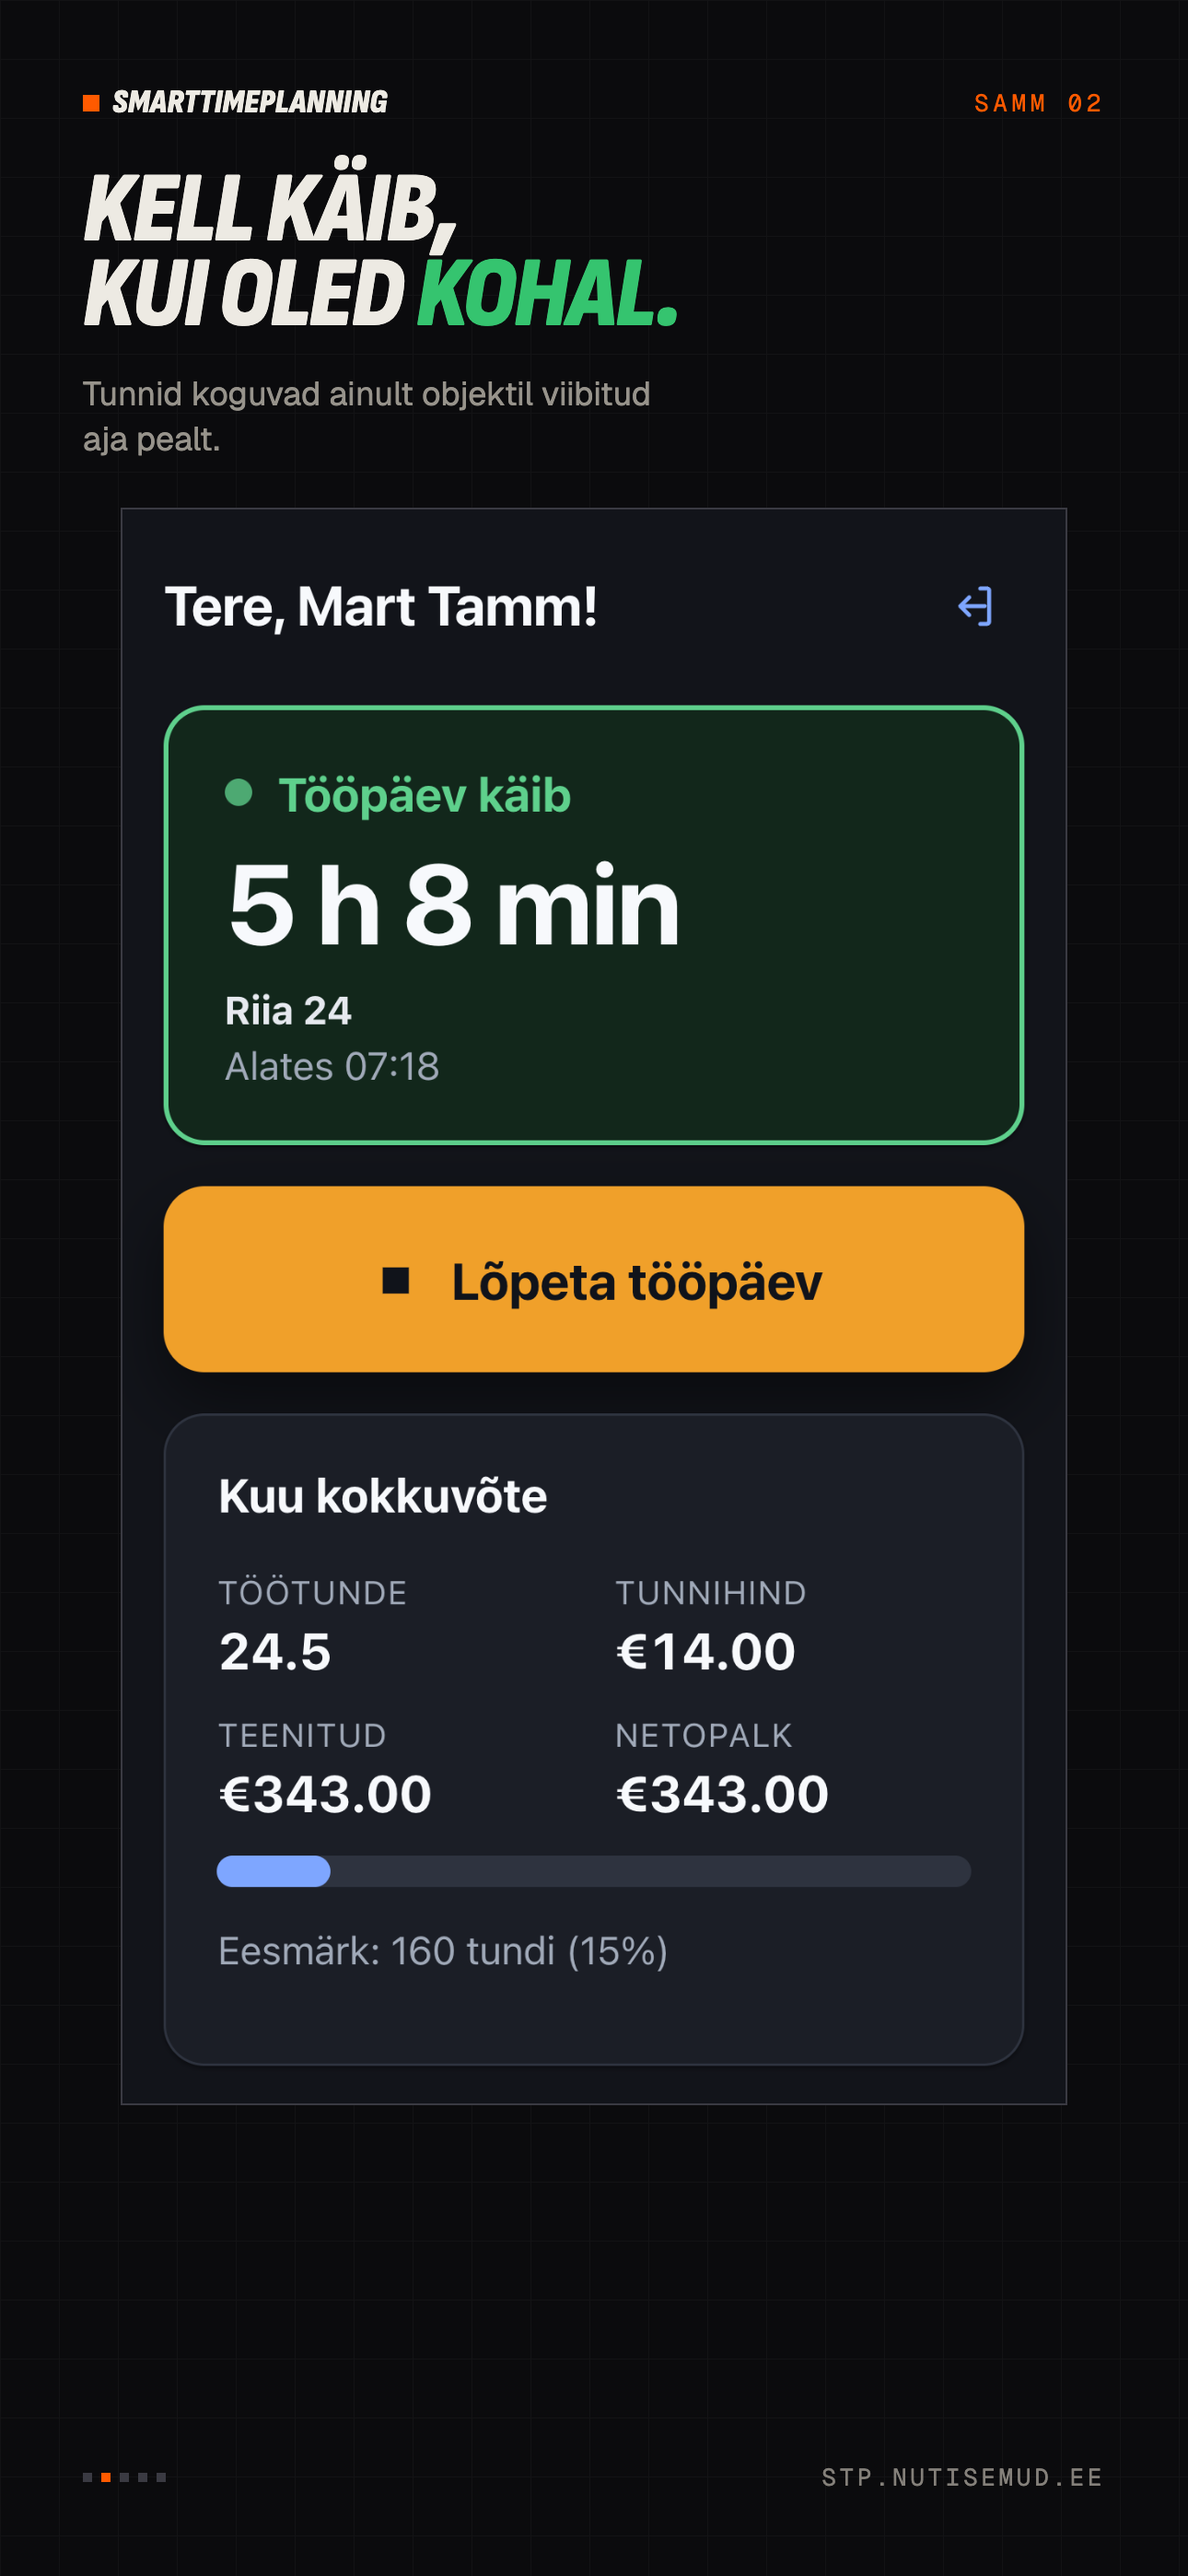
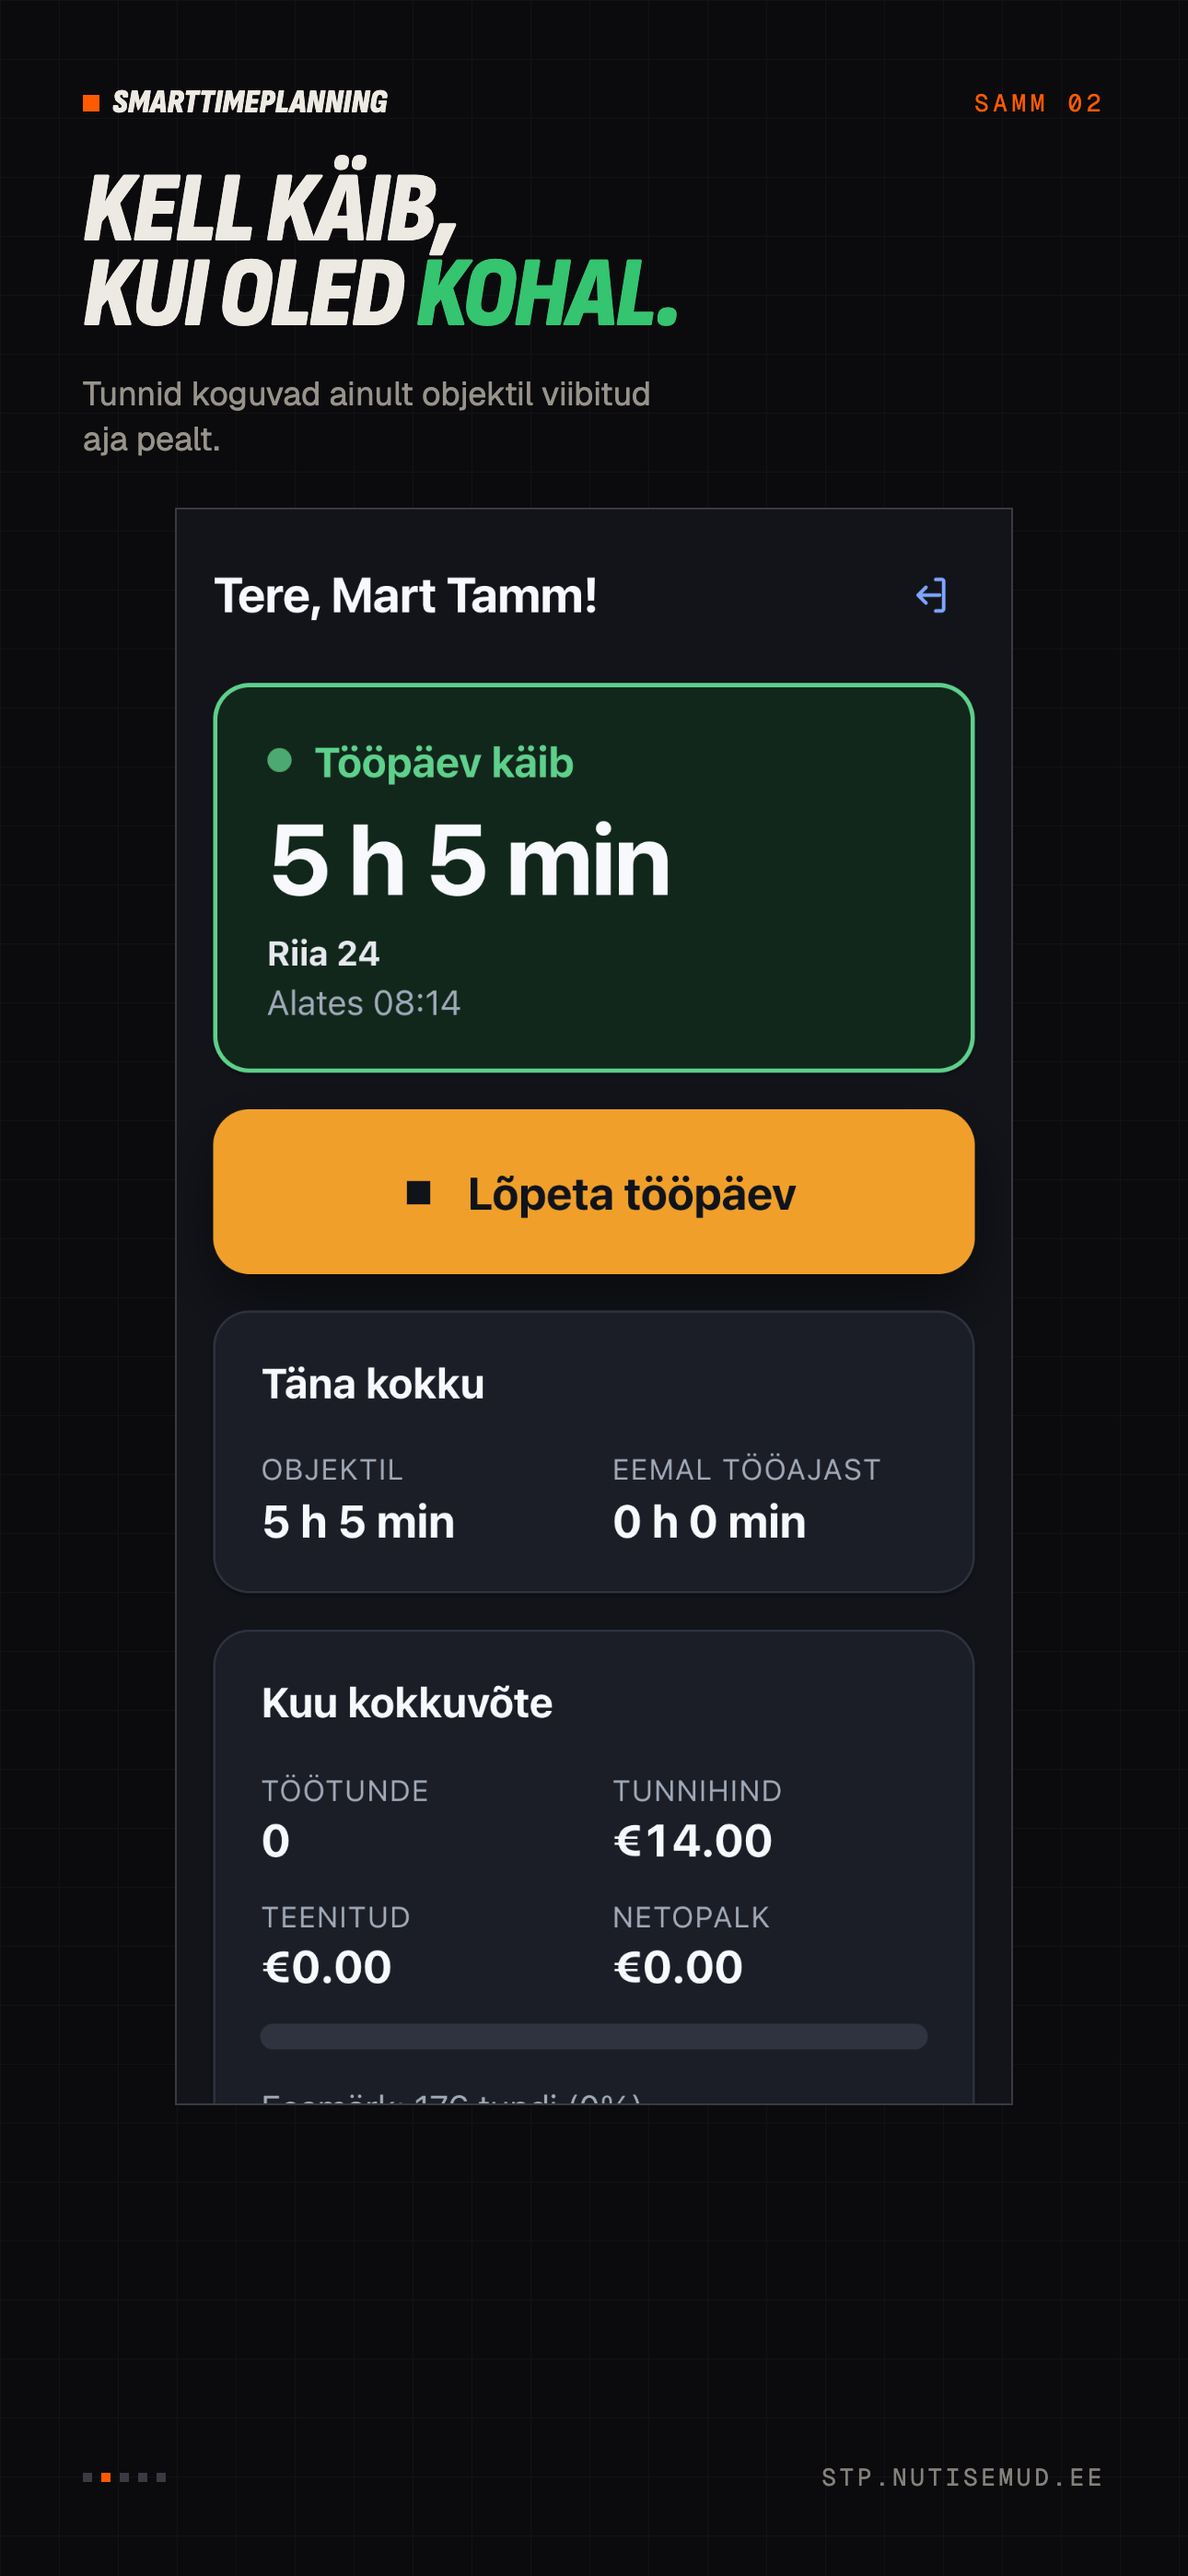
Tee reklaamikaadrid päris äpist ja eemalda valepositiivne kellamärge
Reklaamikomplekt kasutas ekraanipilte, mis olid tehtud enne tänaseid
uuendusi. Kaadrid on nüüd päris jooksvast rakendusest ja sisaldavad
seda, mis päriselt olemas on: tänase päeva jaotus avalehel,
puudumistaotluste voog ja kahtlase tegevuse märge.

Kaks uut kaadrit (mobile-absences, mobile-alert) ja kaks uut kuulutust,
mis EI ole karusselli osa — need on eraldi sõnumid, seega punkte nende
peal ei ole.

Demoandmed tekitavad seadmemärke TEGELIKU tuvastusloogika kaudu: seeme
saadab kohaloleku sündmuse teisest seadmest kui see, kus tööpäev algas.
Käsitsi andmebaasi kirjutatud rida näitaks reklaamis midagi, mida toode
ei pruugi teha. Selleks said demoandmete tööpäevad ka seadme id.

KELLANIHKE MÄRGE EEMALDATUD. Just see katse näitas, et ta on
valepositiivne: kolme päeva demoandmestik tekitas kümme märget, millest
ükski ei olnud päris probleem. Iga offline-kirje on määratluse järgi
vana, seega nihe on suur ka siis, kui kõik on korras — ja nihkest ei saa
eristada "telefoni kell on vale" ja "töötaja oli kolm päeva levita".
Tulevikku suunatud kella, mis oleks päris signaal, lükkab server juba
tagasi. `clock_drift_seconds` ja `created_offline` jäävad kirje külge ja
haldur näeb neid raportis.

Märge, mis tekib alati, õpetab ainult märkeid ignoreerima.

Changed region(s): [[0.124, 0.2178, 0.8682, 0.809], [0.124, 0.5601, 0.155, 0.809]]

diff --git a/api/src/routes/timeLogs.routes.ts b/api/src/routes/timeLogs.routes.ts
@@ -9,11 +9,7 @@ import { computeWorkedHours, presenceState } from "../utils/timeStats.js";
 import { checkGeofence } from "../utils/geofence.js";
 import { decidePresenceEvent } from "../utils/presenceEvents.js";
 import { recordAudit } from "../utils/audit.js";
-import {
-  CLOCK_DRIFT_ALERT_SECONDS,
-  isDeviceMismatch,
-  raiseSecurityAlert,
-} from "../utils/securityAlerts.js";
+import { isDeviceMismatch, raiseSecurityAlert } from "../utils/securityAlerts.js";
 
 export const timeLogsRouter = Router();
 timeLogsRouter.use(requireAuth);
@@ -204,16 +200,23 @@ timeLogsRouter.post(
         dedupeKey: `mock_location:${log.id}`,
       });
     }
-    if (clockDriftSeconds != null && Math.abs(clockDriftSeconds) > CLOCK_DRIFT_ALERT_SECONDS) {
-      await raiseSecurityAlert({
-        organizationId: req.user!.organizationId,
-        userId,
-        timeLogId: log.id,
-        type: "clock_drift",
-        details: { driftSeconds: clockDriftSeconds },
-        dedupeKey: `clock_drift:${log.id}`,
-      });
-    }
+    /*
+     * Kellanihke MÄRGET EI TEHTA.
+     *
+     * Proovitud ja tagasi võetud: iga offline-kirje on määratluse järgi
+     * vana, seega nihe on suur ka siis, kui kõik on korras. Katsetuses
+     * tekitas kolme päeva demoandmestik kümme märget, millest ükski ei
+     * olnud päris probleem.
+     *
+     * Nihkest ei saa eristada "telefoni kell on vale" ja "töötaja oli
+     * kolm päeva levita" — mõlemad näevad välja ühtemoodi. Tulevikku
+     * suunatud kella, mis oleks päris signaal, lükkab server juba
+     * ülalpool tagasi.
+     *
+     * `clock_drift_seconds` ja `created_offline` on kirje küljes alles ja
+     * haldur näeb neid raportis. Märge, mis tekib alati, õpetab ainult
+     * märkeid ignoreerima.
+     */
 
     res.status(201).json(log);
   })

diff --git a/api/src/utils/securityAlerts.ts b/api/src/utils/securityAlerts.ts
@@ -17,9 +17,7 @@ export type SecurityAlertType =
   /** Sündmused tulevad teisest seadmest kui see, kus tööpäev algas. */
   | "device_mismatch"
   /** Seade teatas, et asukoht on võltsitud. */
-  | "mock_location"
-  /** Seadme kell on serveri omast oluliselt nihkes. */
-  | "clock_drift";
+  | "mock_location";
 
 export interface RaiseAlertInput {
   organizationId: number;
@@ -71,8 +69,6 @@ export async function raiseSecurityAlert(input: RaiseAlertInput): Promise<void> 
   }
 }
 
-/** Kellanihe, millest alates tekib märge (sekundites). */
-export const CLOCK_DRIFT_ALERT_SECONDS = 15 * 60;
 
 /**
  * Kas tegevus tuleb teisest seadmest kui see, kus tööpäev algas?

diff --git a/marketing/README.md b/marketing/README.md
@@ -203,13 +203,22 @@ Mõeldud eelkõige **karussellina** (Facebook / Instagram), kus inimene
 kerib slaidilt slaidile ja saab voost aru ilma ühtegi sõna lugemata.
 Poe-mõõt (1290 × 2796) on olemas selleks ajaks, kui äpp poodi läheb.
 
+**Karussell (voog):**
+
 | Slaid | Ekraan | Ütleb |
 |---|---|---|
 | `01-alusta` | Alusta tööpäeva | Asukoht kontrollitakse enne alustamist |
-| `02-kell-kaib` | Tööpäev käib | Tunnid koguvad ainult objektil |
+| `02-kell-kaib` | Tööpäev käib | Tunnid koguvad ainult objektil, tänane jaotus kohe näha |
 | `03-kell-peatub` | Objektilt eemal | Lahkumine peatab kella ise |
 | `04-tunnid-kirjas` | Tööajalugu | Iga päev koos objekti ja tundidega |
-| `05-proovi` | — | Hind ja CTA |
+| `07-proovi` | — | Hind ja CTA |
+
+**Eraldi kuulutused** (ei ole karusselli osa, seetõttu ilma punktideta):
+
+| Slaid | Ekraan | Ütleb |
+|---|---|---|
+| `05-puudumised` | Puudumised | Töötaja taotleb, haldur kinnitab |
+| `06-margis` | Märge avalehel | Kui keegi kasutab su kontot, saad teada |
 
 ## Karusselli põhitekst
 
@@ -250,7 +259,22 @@ Kui kasutad slaide eraldi kuulutustena, mitte karussellina:
 > Objekt, kellaajad ja tunnid nädalate kaupa. Kuu lõpus ei ole vaja
 > kellegi mälu usaldada.
 
-**05 — Proovi tasuta**
+**05 — Puudumine: taotle ja saa vastus**
+
+> Töötaja esitab puudumistaotluse äpist, haldur kinnitab või lükkab
+> tagasi koos põhjendusega. Kinnitatud puudumine vähendab kuu normi,
+> ootel taotlus mitte.
+
+**06 — Kui keegi kasutab su kontot**
+
+> Tööpäev seotakse seadmega, milles ta algas. Kui kirje tuleb teisest
+> seadmest, saavad nii töötaja kui haldur teate. Tööpäev jääb kehtima —
+> see on märge kontrollimiseks, mitte blokeering.
+>
+> Aus piir: kui inimene annab oma telefoni kolleegile, ei tuvasta seda
+> ükski asukohapõhine süsteem.
+
+**07 — Proovi tasuta**
 
 > 5 € kasutaja kohta kuus. iOS, Android ja arvutiliides brauseris.
 > Neli keelt: eesti, inglise, vene, ukraina. Esimesed 14 päeva tasuta.
@@ -269,3 +293,41 @@ Kui kasutad slaide eraldi kuulutustena, mitte karussellina:
 esimese klikiga pettub. CTA on sama mis lehel: *Proovi tasuta*,
 aadressilt `stp.nutisemud.ee`. Kui äpp poodi jõuab, muuda seda skriptis
 ühes kohas ja tee komplekt uuesti.
+
+---
+
+## Kaadrid on PÄRIS äpist
+
+`app/` komplekti telefonipildid ei ole joonistatud ega vanad — nad
+tehakse päris rakendusest demoandmetega:
+
+```bash
+# 1. kohalik demo-andmebaas (MITTE time_tracking)
+colima start
+cd api && docker compose up -d
+docker exec api-mysql-1 mysql -uroot -pdevrootpassword \
+  -e "CREATE DATABASE IF NOT EXISTS stp_demo; GRANT ALL ON stp_demo.* TO 'app'@'%'; FLUSH PRIVILEGES;"
+DATABASE_URL="mysql://app:devpassword@localhost:3306/stp_demo" npx prisma db push
+DATABASE_URL="mysql://app:devpassword@localhost:3306/stp_demo" npm run prisma:seed
+DATABASE_URL="mysql://app:devpassword@localhost:3306/stp_demo" REMINDERS_ENABLED=false npm run dev
+
+# 2. neutraalsed demoandmed (sh puudumistaotlus ja päris seadmemärge)
+cd ../website && node scripts/demo-seed.mjs
+
+# 3. äpp selle API vastu
+echo 'VITE_API_BASE_URL="http://localhost:3000/api"' > ../mobile/.env.development.local
+npm --prefix ../mobile run dev
+
+# 4. kaadrid + reklaamid
+node scripts/capture-app-ui.mjs
+node scripts/app-ads.mjs
+
+# 5. KORISTA
+rm ../mobile/.env.development.local
+docker exec api-mysql-1 mysql -uroot -pdevrootpassword -e "DROP DATABASE stp_demo;"
+```
+
+Seadmemärge demoandmetes tekib **tegeliku tuvastusloogika kaudu**:
+seeme saadab kohaloleku sündmuse teisest seadmest kui see, kus tööpäev
+algas. Käsitsi andmebaasi kirjutatud rida näitaks reklaamis midagi, mida
+toode ei pruugi teha.
